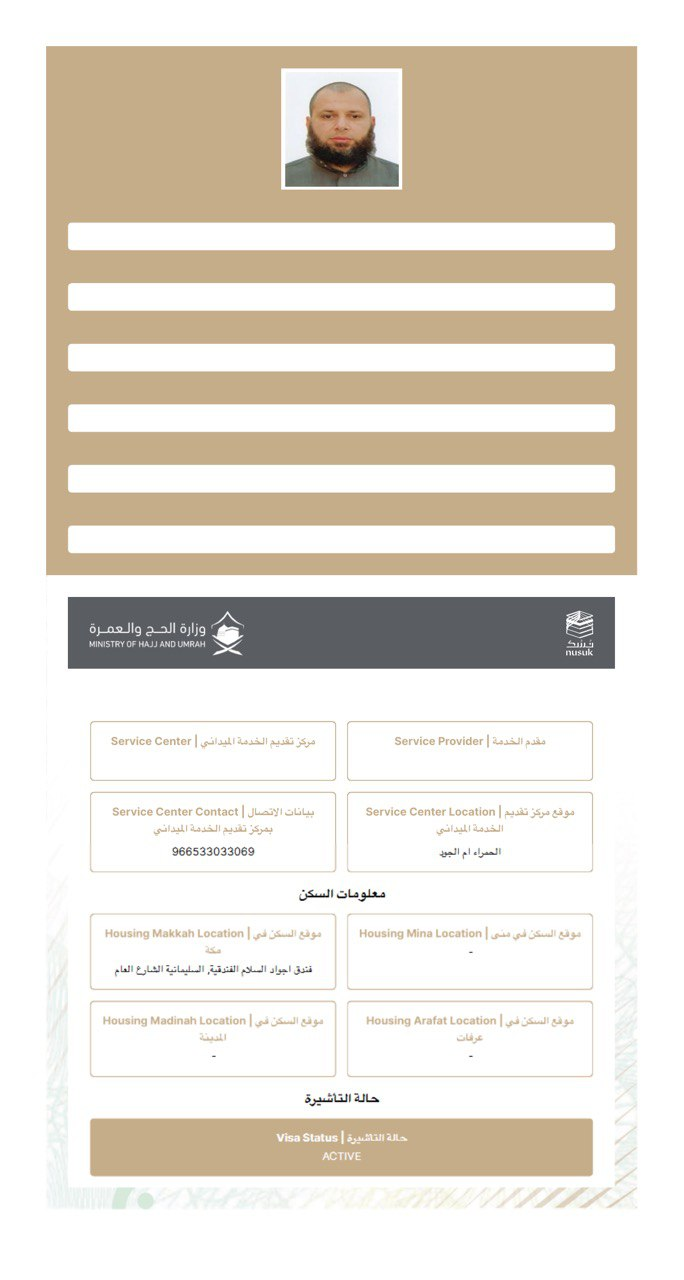
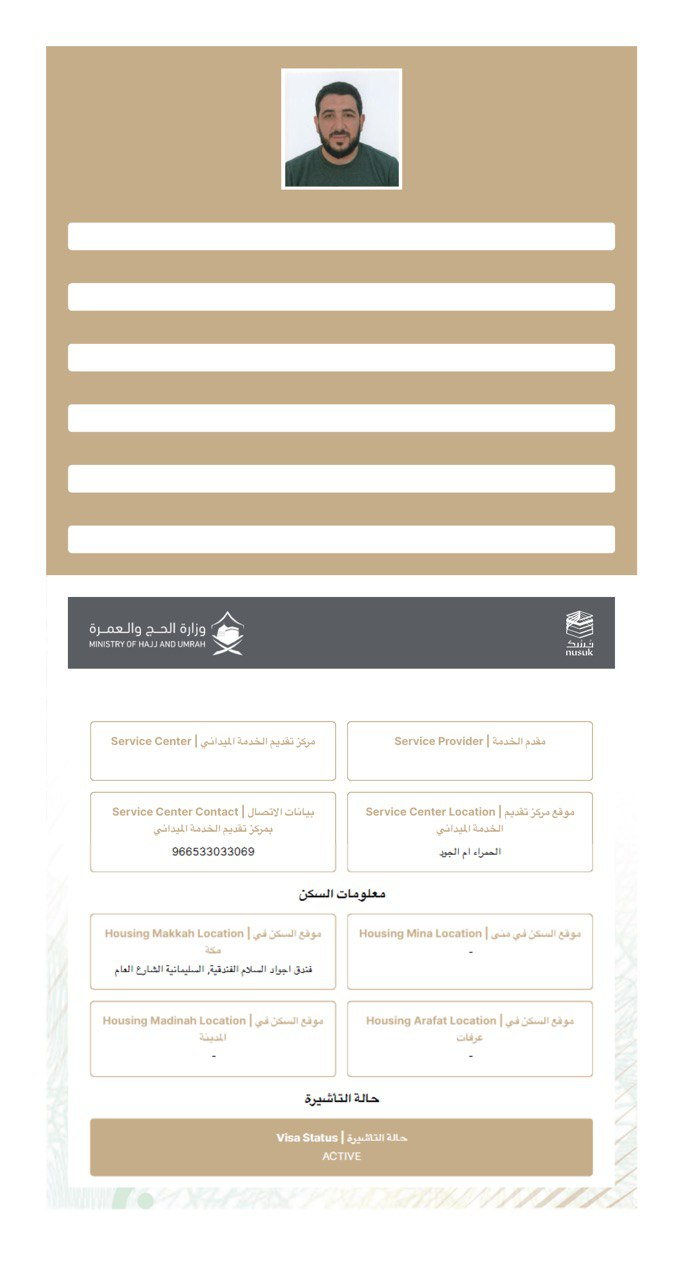
Add files via upload

Changed region(s): [[0.3991, 0.0625, 0.5833, 0.1562]]

diff --git a/213249/index.html b/213249/index.html
@@ -412,7 +412,7 @@ pdf2htmlEX.defaultViewer = new pdf2htmlEX.Viewer({});
     </div>
     
     <div id="page-container">
-    <div id="pf1" class="pf w0 h0" data-page-no="1"><div class="pc pc1 w0 h0 opened"><img class="bi x0 y0 w1 h1" alt="" src="./213249/img1.jpg"><div class="c x1 y1 w2 h2"><div class="t m0 x2 h3 y2 ff1 fs0 fc0 sc0 lsd ws0">!"#$%&amp;'(")*+,<span class="_"> </span><span class="ls0">-<span class="ff2 ls6 ws1">!"#$</span><span class="ls4 ws2">,%<span class="ff2 lse">%&amp;'(</span></span></span></div><div class="t m0 x3 h4 y3 ff3 fs0 fc1 sc0 ls1 ws3" style="direction: rtl;">حاج بلجيلالي<span class="ff4 lsf ws1b"> </span><span class="lsd ws4"></span></div><div class="t m0 x2 h3 y4 ff1 fs0 fc0 sc0 lsf ws5">!"#$%&amp;./01*23,<span class="_"> </span>-<span class="ff2 ls5 ws6">)*+,-./0(</span><span class="ls4 ws2">,%<span class="ff2 lse">%&amp;'(</span></span></div><div class="t m0 x4 h4 y5 lato-bold fs0 fc1 sc0 ls10 ws1b">HADJ BELDJILALI</div><div class="t m0 x2 h3 y6 ff1 fs0 fc0 sc0 ls2 ws7">4*2"%56<span class="_"> </span><span class="ls4 ws2">56<span class="ff2 lsf ws8">1<span class="_ _2"></span>#,2345(<span class="ff1 ls3">%</span><span class="lse ws9">%6<span class="_ _2"></span>7</span></span></span></div><div class="t m0 x5 h4 y7 inter-nember fs0 fc1 sc0 ls4 wsa">6116178891</div><div class="t m0 x2 h3 y8 ff1 fs0 fc0 sc0 lsf wsb">78(9$(%!:#)$(<span class="_"> </span><span class="ls4 ws2">-%</span><span class="ff2 ws8">89<span class="_ _2"></span>:;(<span class="ff1 ls3">%</span><span class="lse ws9">%6<span class="_ _2"></span>#5(<span class="ff1 ls5 wsc">%,<span class="ls3">%</span></span><span class="ls11 wsd">&lt;=<span class="_ _0"></span>8<span class="_ _0"></span>&gt;<span class="_ _0"></span>5<span class="_ _0"></span>(<span class="_ _0"></span><span class="ff1 ls3">%</span></span>%6<span class="_ _2"></span>7</span></span></div><div class="t m0 x5 h4 y9 inter-nember fs0 fc1 sc0 ls4 wsa">6155128950</div><div class="t m0 x2 h3 ya ff1 fs0 fc0 sc0 lsd wse">!";*8/"1*;&lt;<span class="_"> </span><span class="ff2 ls5 ws6">),?@.5(</span></div><div class="t m0 x6 h4 yb ff4 fs0 fc1 sc0 ls12 wsf">Algeria<span class="_"> </span><span class="ff3 ls13 ws10">الجزائر </span></div><div class="t m0 x2 h3 yc ff1 fs0 fc0 sc0 lse ws11">=$/9$(<span class="_"> </span><span class="ff2 ls5 ws6">A@B</span></div><div class="t m0 x6 h4 yd ff4 fs0 fc1 sc0 lsd ws12">Male<span class="_"> </span><span class="ff3 ls13 ws10">ذكر </span></div><div class="t m0 x7 h4 ye ff3 fs0 fc0 sc0 lse ws9" style="direction: ltr;">/012,*<span class="ff4 lsf ws1b"> </span><span class="ls12 ws13">3"4<span class="ff4 lsf">-</span></span></div><div class="t m0 x8 h4 yf ff4 fs0 fc0 sc0 ls4 ws1b">Package T<span class="_ _2"></span>ype</div><div class="t m0 x9 h4 y10 ff4 fs0 fc0 sc0 lsf">-</div><div class="t m0 xa h5 y11 ff3 fs1 fc1 sc0 ls14 ws14" style="direction: ltr;">/5&amp;6,*<span class="ff5 lsf ws1b"> <span class="ff3 ws15" style="direction: ltr;">7$&amp;89</span> </span>/-<span class="_ _4"></span>(:</div><div class="t m0 xb h4 y12 ff4 fs0 fc2 sc0 lsf ws1b"><span class="fc4 sc0">S</span><span class="fc4 sc0">e</span><span class="fc4 sc0">r</span><span class="fc4 sc0">v</span><span class="fc4 sc0">i</span><span class="fc4 sc0">c</span><span class="fc4 sc0">e</span><span class="fc4 sc0"> </span><span class="fc4 sc0">Ce</span><span class="fc4 sc0">n</span><span class="fc4 sc0">t</span><span class="fc4 sc0">e</span><span class="fc4 sc0">r</span><span class="lsd"><span class="fc4 sc0"> </span><span class="fc4 sc0">| </span><span class="ff3 lse ws9"><span class="fc4 sc0">;4</span><span class="fc4 sc0">*</span><span class="fc4 sc0">&amp;&lt;=*</span></span></span><span class="fc4 sc0"> </span><span class="ff3 lse ws9"><span class="fc4 sc0">/5&amp;6,*</span></span><span class="fc4 sc0"> </span><span class="ff3 ws8"><span class="fc4 sc0">7</span><span class="fc4 sc0">$</span><span class="fc4 sc0">&amp;</span><span class="fc4 sc0">89</span></span><span class="fc4 sc0"> </span><span class="ff3 ls13 ws10"><span class="fc4 sc0">'-</span><span class="_ _5"></span><span class="fc4 sc0">(5</span></span></div><div class="t m0 xc h3 y13 ff1 fs0 fc1 sc0 ls6 ws16">&gt;&gt;?<span class="ls3">%<span class="ff2 ls12 ws13">C'DE<span class="_ _5"></span>=<span class="ff1 ls3">%</span><span class="lsd ws4">#F(<span class="_ _3"></span>+.5(<span class="ff1 ls3">%</span><span class="ls5 ws6">)GD,H<span class="ff1 ls3">%</span></span>+E<span class="_ _5"></span>#I</span></span></span></div><div class="t m0 xd h4 y12 ff4 fs0 fc2 sc0 lsd ws1b"><span class="fc4 sc0">Ser</span><span class="fc4 sc0">vice </span><span class="fc4 sc0">Pr</span><span class="fc4 sc0">o</span><span class="_ _3"></span><span class="fc4 sc0">vider</span><span class="fc4 sc0"> </span><span class="fc4 sc0">| </span><span class="ff3 lse ws9"><span class="fc4 sc0">/5&amp;6,*</span></span><span class="lsf"><span class="fc4 sc0"> </span><span class="ff3 ws8"><span class="fc4 sc0">&gt;</span><span class="fc4 sc0">&amp;</span><span class="fc4 sc0">85</span></span></span></div><div class="t m0 xe h3 y13 ff2 fs0 fc1 sc0 ls5 ws6">)9D,?-5<span class="ff1 ls3">%</span><span class="ls6 ws1">J,K5(<span class="ff1 ls3">%</span><span class="lse ws9">L(<span class="_ _5"></span>#EM<span class="_ _1"></span><span class="ff1 ls3">%</span><span class="ls5 ws6">)E<span class="_ _4"></span>#2</span></span></span></div><div class="t m0 xf h4 y14 ff4 fs0 fc2 sc0 lsf ws1b"><span class="fc4 sc0">S</span><span class="fc4 sc0">e</span><span class="fc4 sc0">r</span><span class="fc4 sc0">v</span><span class="fc4 sc0">i</span><span class="fc4 sc0">c</span><span class="fc4 sc0">e</span><span class="fc4 sc0"> </span><span class="fc4 sc0">Ce</span><span class="fc4 sc0">n</span><span class="fc4 sc0">t</span><span class="fc4 sc0">e</span><span class="fc4 sc0">r</span><span class="fc4 sc0"> </span><span class="fc4 sc0">Co</span><span class="fc4 sc0">n</span><span class="fc4 sc0">t</span><span class="fc4 sc0">a</span><span class="fc4 sc0">c</span><span class="fc4 sc0">t</span><span class="lsd"><span class="fc4 sc0"> </span><span class="fc4 sc0">| </span><span class="ff3 ls12 ws13"><span class="fc4 sc0">?1</span><span class="fc4 sc0">@9</span><span class="fc4 sc0">A*</span></span></span><span class="fc4 sc0"> </span><span class="ff3 ls1 ws3"><span class="fc4 sc0">B</span><span class="fc4 sc0">141&lt;C</span></span></div><div class="t m0 x10 h4 y15 ff3 fs0 fc2 sc0 lse ws9"><span class="fc4 sc0">;4</span><span class="fc4 sc0">*</span><span class="fc4 sc0">&amp;&lt;=*</span><span class="ff4 lsf ws1b"><span class="fc4 sc0"> </span></span><span class="fc4 sc0">/5&amp;6,*</span><span class="ff4 lsf ws1b"><span class="fc4 sc0"> </span><span class="ff3 ws8"><span class="fc4 sc0">7</span><span class="fc4 sc0">$</span><span class="fc4 sc0">&amp;</span><span class="fc4 sc0">89</span></span><span class="fc4 sc0"> </span><span class="ff3 ws8"><span class="fc4 sc0">'</span><span class="fc4 sc0">-</span><span class="_ _5"></span><span class="fc4 sc0">(</span><span class="fc4 sc0">DC</span></span></span></div><div class="t m0 x8 h4 y14 ff4 fs0 fc2 sc0 lsf ws1b"><span class="fc4 sc0">S</span><span class="fc4 sc0">e</span><span class="fc4 sc0">r</span><span class="fc4 sc0">v</span><span class="fc4 sc0">i</span><span class="fc4 sc0">c</span><span class="fc4 sc0">e</span><span class="fc4 sc0"> </span><span class="fc4 sc0">Ce</span><span class="fc4 sc0">n</span><span class="fc4 sc0">t</span><span class="fc4 sc0">e</span><span class="fc4 sc0">r</span><span class="fc4 sc0"> </span><span class="fc4 sc0">L</span><span class="fc4 sc0">o</span><span class="fc4 sc0">c</span><span class="fc4 sc0">a</span><span class="fc4 sc0">t</span><span class="fc4 sc0">i</span><span class="fc4 sc0">o</span><span class="fc4 sc0">n</span><span class="lsd"><span class="fc4 sc0"> </span><span class="fc4 sc0">| </span></span><span class="ff3 ws8"><span class="fc4 sc0">7</span><span class="fc4 sc0">$</span><span class="fc4 sc0">&amp;</span><span class="fc4 sc0">89</span></span><span class="fc4 sc0"> </span><span class="ff3 ls13 ws10"><span class="fc4 sc0">'-</span><span class="_ _5"></span><span class="fc4 sc0">(5</span><span class="ff4 lsf ws1b"><span class="fc4 sc0"> </span></span><span class="ls7 ws17"><span class="fc4 sc0">E0</span><span class="fc4 sc0">"5</span></span></span></div><div class="t m0 x11 h4 y15 ff3 fs0 fc2 sc0 lse ws9"><span class="fc4 sc0">;4</span><span class="fc4 sc0">*</span><span class="fc4 sc0">&amp;&lt;=*</span><span class="ff4 lsf ws1b"><span class="fc4 sc0"> </span></span><span class="fc4 sc0">/5&amp;6,*</span></div>
+    <div id="pf1" class="pf w0 h0" data-page-no="1"><div class="pc pc1 w0 h0 opened"><img class="bi x0 y0 w1 h1" alt="" src="./213249/img1.jpg"><div class="c x1 y1 w2 h2"><div class="t m0 x2 h3 y2 ff1 fs0 fc0 sc0 lsd ws0">!"#$%&amp;'(")*+,<span class="_"> </span><span class="ls0">-<span class="ff2 ls6 ws1">!"#$</span><span class="ls4 ws2">,%<span class="ff2 lse">%&amp;'(</span></span></span></div><div class="t m0 x3 h4 y3 ff3 fs0 fc1 sc0 ls1 ws3" style="direction: rtl;">المختار مستور<span class="ff4 lsf ws1b"> </span><span class="lsd ws4"></span></div><div class="t m0 x2 h3 y4 ff1 fs0 fc0 sc0 lsf ws5">!"#$%&amp;./01*23,<span class="_"> </span>-<span class="ff2 ls5 ws6">)*+,-./0(</span><span class="ls4 ws2">,%<span class="ff2 lse">%&amp;'(</span></span></div><div class="t m0 x4 h4 y5 lato-bold fs0 fc1 sc0 ls10 ws1b">EL MOKHTAR MESTOUR</div><div class="t m0 x2 h3 y6 ff1 fs0 fc0 sc0 ls2 ws7">4*2"%56<span class="_"> </span><span class="ls4 ws2">56<span class="ff2 lsf ws8">1<span class="_ _2"></span>#,2345(<span class="ff1 ls3">%</span><span class="lse ws9">%6<span class="_ _2"></span>7</span></span></span></div><div class="t m0 x5 h4 y7 inter-nember fs0 fc1 sc0 ls4 wsa">6115347543</div><div class="t m0 x2 h3 y8 ff1 fs0 fc0 sc0 lsf wsb">78(9$(%!:#)$(<span class="_"> </span><span class="ls4 ws2">-%</span><span class="ff2 ws8">89<span class="_ _2"></span>:;(<span class="ff1 ls3">%</span><span class="lse ws9">%6<span class="_ _2"></span>#5(<span class="ff1 ls5 wsc">%,<span class="ls3">%</span></span><span class="ls11 wsd">&lt;=<span class="_ _0"></span>8<span class="_ _0"></span>&gt;<span class="_ _0"></span>5<span class="_ _0"></span>(<span class="_ _0"></span><span class="ff1 ls3">%</span></span>%6<span class="_ _2"></span>7</span></span></div><div class="t m0 x5 h4 y9 inter-nember fs0 fc1 sc0 ls4 wsa">6120208911</div><div class="t m0 x2 h3 ya ff1 fs0 fc0 sc0 lsd wse">!";*8/"1*;&lt;<span class="_"> </span><span class="ff2 ls5 ws6">),?@.5(</span></div><div class="t m0 x6 h4 yb ff4 fs0 fc1 sc0 ls12 wsf">Algeria<span class="_"> </span><span class="ff3 ls13 ws10">الجزائر </span></div><div class="t m0 x2 h3 yc ff1 fs0 fc0 sc0 lse ws11">=$/9$(<span class="_"> </span><span class="ff2 ls5 ws6">A@B</span></div><div class="t m0 x6 h4 yd ff4 fs0 fc1 sc0 lsd ws12">Male<span class="_"> </span><span class="ff3 ls13 ws10">ذكر </span></div><div class="t m0 x7 h4 ye ff3 fs0 fc0 sc0 lse ws9" style="direction: ltr;">/012,*<span class="ff4 lsf ws1b"> </span><span class="ls12 ws13">3"4<span class="ff4 lsf">-</span></span></div><div class="t m0 x8 h4 yf ff4 fs0 fc0 sc0 ls4 ws1b">Package T<span class="_ _2"></span>ype</div><div class="t m0 x9 h4 y10 ff4 fs0 fc0 sc0 lsf">-</div><div class="t m0 xa h5 y11 ff3 fs1 fc1 sc0 ls14 ws14" style="direction: ltr;">/5&amp;6,*<span class="ff5 lsf ws1b"> <span class="ff3 ws15" style="direction: ltr;">7$&amp;89</span> </span>/-<span class="_ _4"></span>(:</div><div class="t m0 xb h4 y12 ff4 fs0 fc2 sc0 lsf ws1b"><span class="fc4 sc0">S</span><span class="fc4 sc0">e</span><span class="fc4 sc0">r</span><span class="fc4 sc0">v</span><span class="fc4 sc0">i</span><span class="fc4 sc0">c</span><span class="fc4 sc0">e</span><span class="fc4 sc0"> </span><span class="fc4 sc0">Ce</span><span class="fc4 sc0">n</span><span class="fc4 sc0">t</span><span class="fc4 sc0">e</span><span class="fc4 sc0">r</span><span class="lsd"><span class="fc4 sc0"> </span><span class="fc4 sc0">| </span><span class="ff3 lse ws9"><span class="fc4 sc0">;4</span><span class="fc4 sc0">*</span><span class="fc4 sc0">&amp;&lt;=*</span></span></span><span class="fc4 sc0"> </span><span class="ff3 lse ws9"><span class="fc4 sc0">/5&amp;6,*</span></span><span class="fc4 sc0"> </span><span class="ff3 ws8"><span class="fc4 sc0">7</span><span class="fc4 sc0">$</span><span class="fc4 sc0">&amp;</span><span class="fc4 sc0">89</span></span><span class="fc4 sc0"> </span><span class="ff3 ls13 ws10"><span class="fc4 sc0">'-</span><span class="_ _5"></span><span class="fc4 sc0">(5</span></span></div><div class="t m0 xc h3 y13 ff1 fs0 fc1 sc0 ls6 ws16">&gt;&gt;?<span class="ls3">%<span class="ff2 ls12 ws13">C'DE<span class="_ _5"></span>=<span class="ff1 ls3">%</span><span class="lsd ws4">#F(<span class="_ _3"></span>+.5(<span class="ff1 ls3">%</span><span class="ls5 ws6">)GD,H<span class="ff1 ls3">%</span></span>+E<span class="_ _5"></span>#I</span></span></span></div><div class="t m0 xd h4 y12 ff4 fs0 fc2 sc0 lsd ws1b"><span class="fc4 sc0">Ser</span><span class="fc4 sc0">vice </span><span class="fc4 sc0">Pr</span><span class="fc4 sc0">o</span><span class="_ _3"></span><span class="fc4 sc0">vider</span><span class="fc4 sc0"> </span><span class="fc4 sc0">| </span><span class="ff3 lse ws9"><span class="fc4 sc0">/5&amp;6,*</span></span><span class="lsf"><span class="fc4 sc0"> </span><span class="ff3 ws8"><span class="fc4 sc0">&gt;</span><span class="fc4 sc0">&amp;</span><span class="fc4 sc0">85</span></span></span></div><div class="t m0 xe h3 y13 ff2 fs0 fc1 sc0 ls5 ws6">)9D,?-5<span class="ff1 ls3">%</span><span class="ls6 ws1">J,K5(<span class="ff1 ls3">%</span><span class="lse ws9">L(<span class="_ _5"></span>#EM<span class="_ _1"></span><span class="ff1 ls3">%</span><span class="ls5 ws6">)E<span class="_ _4"></span>#2</span></span></span></div><div class="t m0 xf h4 y14 ff4 fs0 fc2 sc0 lsf ws1b"><span class="fc4 sc0">S</span><span class="fc4 sc0">e</span><span class="fc4 sc0">r</span><span class="fc4 sc0">v</span><span class="fc4 sc0">i</span><span class="fc4 sc0">c</span><span class="fc4 sc0">e</span><span class="fc4 sc0"> </span><span class="fc4 sc0">Ce</span><span class="fc4 sc0">n</span><span class="fc4 sc0">t</span><span class="fc4 sc0">e</span><span class="fc4 sc0">r</span><span class="fc4 sc0"> </span><span class="fc4 sc0">Co</span><span class="fc4 sc0">n</span><span class="fc4 sc0">t</span><span class="fc4 sc0">a</span><span class="fc4 sc0">c</span><span class="fc4 sc0">t</span><span class="lsd"><span class="fc4 sc0"> </span><span class="fc4 sc0">| </span><span class="ff3 ls12 ws13"><span class="fc4 sc0">?1</span><span class="fc4 sc0">@9</span><span class="fc4 sc0">A*</span></span></span><span class="fc4 sc0"> </span><span class="ff3 ls1 ws3"><span class="fc4 sc0">B</span><span class="fc4 sc0">141&lt;C</span></span></div><div class="t m0 x10 h4 y15 ff3 fs0 fc2 sc0 lse ws9"><span class="fc4 sc0">;4</span><span class="fc4 sc0">*</span><span class="fc4 sc0">&amp;&lt;=*</span><span class="ff4 lsf ws1b"><span class="fc4 sc0"> </span></span><span class="fc4 sc0">/5&amp;6,*</span><span class="ff4 lsf ws1b"><span class="fc4 sc0"> </span><span class="ff3 ws8"><span class="fc4 sc0">7</span><span class="fc4 sc0">$</span><span class="fc4 sc0">&amp;</span><span class="fc4 sc0">89</span></span><span class="fc4 sc0"> </span><span class="ff3 ws8"><span class="fc4 sc0">'</span><span class="fc4 sc0">-</span><span class="_ _5"></span><span class="fc4 sc0">(</span><span class="fc4 sc0">DC</span></span></span></div><div class="t m0 x8 h4 y14 ff4 fs0 fc2 sc0 lsf ws1b"><span class="fc4 sc0">S</span><span class="fc4 sc0">e</span><span class="fc4 sc0">r</span><span class="fc4 sc0">v</span><span class="fc4 sc0">i</span><span class="fc4 sc0">c</span><span class="fc4 sc0">e</span><span class="fc4 sc0"> </span><span class="fc4 sc0">Ce</span><span class="fc4 sc0">n</span><span class="fc4 sc0">t</span><span class="fc4 sc0">e</span><span class="fc4 sc0">r</span><span class="fc4 sc0"> </span><span class="fc4 sc0">L</span><span class="fc4 sc0">o</span><span class="fc4 sc0">c</span><span class="fc4 sc0">a</span><span class="fc4 sc0">t</span><span class="fc4 sc0">i</span><span class="fc4 sc0">o</span><span class="fc4 sc0">n</span><span class="lsd"><span class="fc4 sc0"> </span><span class="fc4 sc0">| </span></span><span class="ff3 ws8"><span class="fc4 sc0">7</span><span class="fc4 sc0">$</span><span class="fc4 sc0">&amp;</span><span class="fc4 sc0">89</span></span><span class="fc4 sc0"> </span><span class="ff3 ls13 ws10"><span class="fc4 sc0">'-</span><span class="_ _5"></span><span class="fc4 sc0">(5</span><span class="ff4 lsf ws1b"><span class="fc4 sc0"> </span></span><span class="ls7 ws17"><span class="fc4 sc0">E0</span><span class="fc4 sc0">"5</span></span></span></div><div class="t m0 x11 h4 y15 ff3 fs0 fc2 sc0 lse ws9"><span class="fc4 sc0">;4</span><span class="fc4 sc0">*</span><span class="fc4 sc0">&amp;&lt;=*</span><span class="ff4 lsf ws1b"><span class="fc4 sc0"> </span></span><span class="fc4 sc0">/5&amp;6,*</span></div>
 </div>
 </div><div class="pi" data-data="{&quot;ctm&quot;:[1.000000,0.000000,0.000000,1.000000,0.000000,0.000000]}"></div></div>
    
